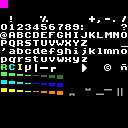
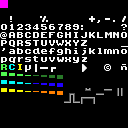
room game: Improve pause menu graphics

Changed region(s): [[0.5, 0.75, 0.75, 0.8125]]

diff --git a/maps/text.tsx b/maps/text.tsx
@@ -1,4 +1,4 @@
 <?xml version="1.0" encoding="UTF-8"?>
 <tileset version="1.5" tiledversion="1.6.0" name="text" tilewidth="8" tileheight="8" tilecount="256" columns="16">
- <image source="../graphics/text.png" width="128" height="128"/>
+ <image source="minimap_frame_tiles.png" width="128" height="128"/>
 </tileset>

diff --git a/source/room_game/pause_menu.c b/source/room_game/pause_menu.c
@@ -8,19 +8,23 @@
 
 #include "room_game/status_bar.h"
 
+// Assets
+
+#include "maps/pause_menu_bg.h"
+
 #define MENU_MAP_BASE       (TEXT_MAP_BASE + (32 * 32 * 2))
 
 void PauseMenuLoad(void)
 {
     // Load the map
 
-    // TODO: Load actual map
+    for (size_t i = 0; i < (pause_menu_bg_map_size / 2); i++)
+    {
+        const uint16_t *src = (const uint16_t *)pause_menu_bg_map;
+        uint16_t *dst = (void *)MENU_MAP_BASE;
 
-    uint32_t fill = ' ';
-    fill = (fill << 24) | (fill << 16) | (fill << 8) | (fill << 0);
-    int height = (GBA_SCREEN_H / 8) - 2;
-    SWI_CpuSet_Fill32(&fill, (void *)MENU_MAP_BASE,
-                      32 * height * sizeof(uint16_t));
+        dst[i] =  MAP_REGULAR_TILE(src[i]) | MAP_REGULAR_PALETTE(TEXT_PALETTE);
+    }
 
     // Setup background
 
